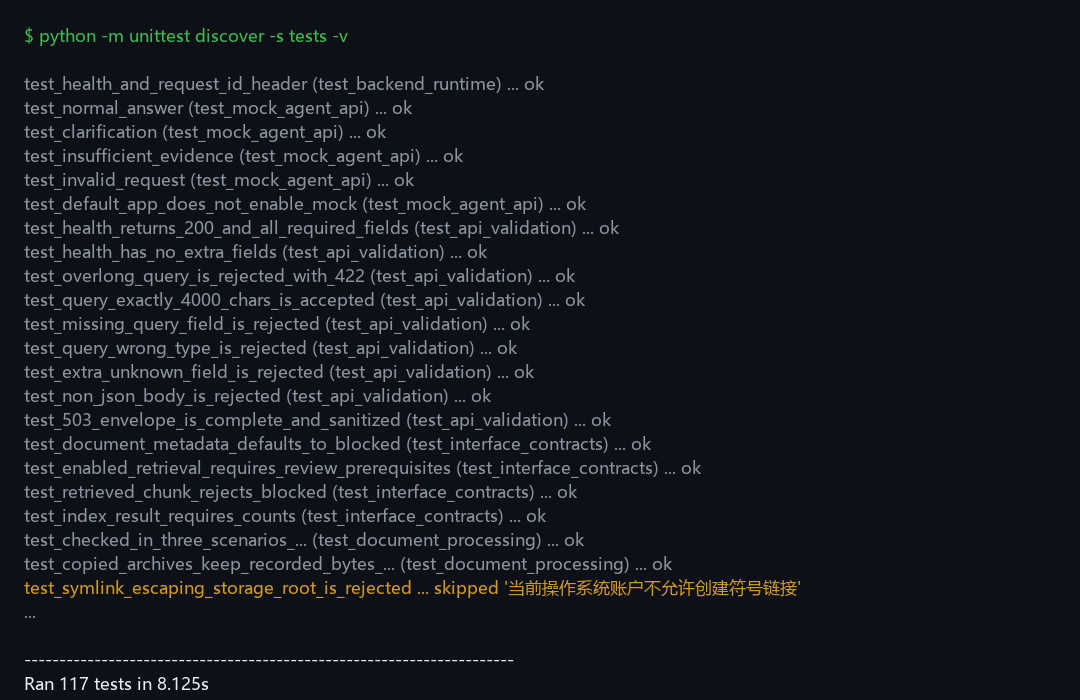
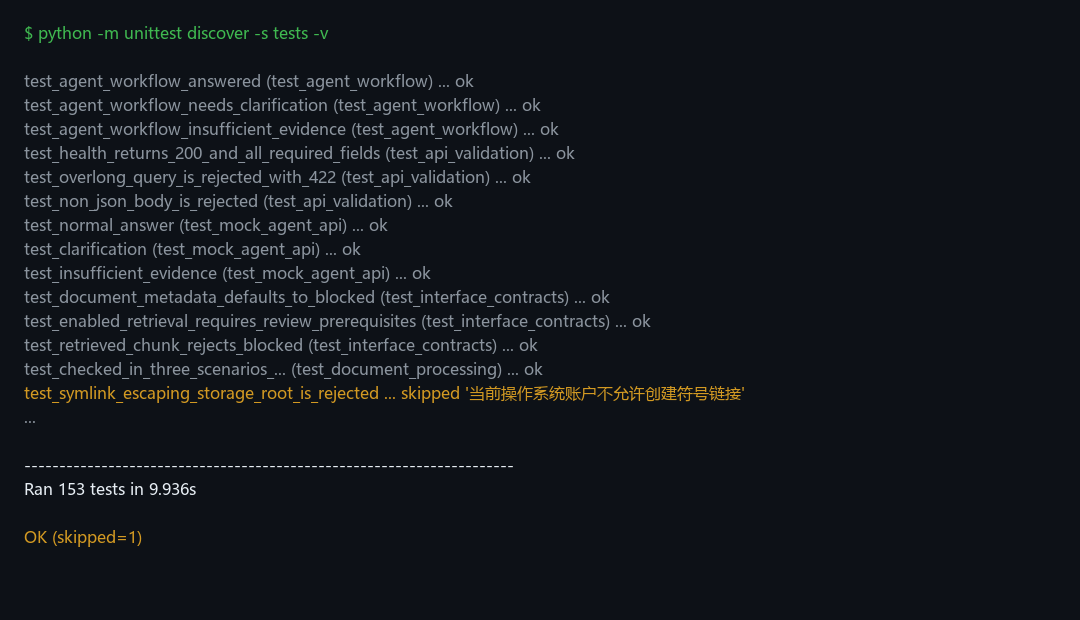
test(alpha): rebase 到最新 main 并更新测试结果为 153 用例
- 将分支 rebase 到 main（含吴诗莹 Agent 工作流 PR #24），
  完整测试数从 117 增至 153（新增 agent_workflow 36 个用例）
- 修正测试统计：153 用例，152 通过，0 失败，0 错误，1 skip
  （skip 为 Windows 账户符号链接权限限制）
- 修正报告中「真实 Agent 尚未接入」的过时表述：AgentWorkflow 已落地，
  真实 Retriever / 真实 Qwen 调用仍待接入
- 同步更新 test-report.md、test-results.json、test-run-output.txt 及两张截图

Changed region(s): [[0.0, 0.0919, 0.7333, 0.8887], [0.0, 0.0306, 0.3056, 0.0613], [0.0306, 0.95, 0.1833, 1.0]]

diff --git a/docs/assignment-03/alpha/test-report.md b/docs/assignment-03/alpha/test-report.md
@@ -31,8 +31,8 @@ python -m unittest discover -s tests -v
 
 | 指标 | 数值 |
 | --- | --- |
-| 测试用例总数 | 117 |
-| 通过 | 116 |
+| 测试用例总数 | 153 |
+| 通过 | 152 |
 | 失败（fail） | 0 |
 | 错误（error） | 0 |
 | 跳过（skip） | 1 |
@@ -40,6 +40,9 @@ python -m unittest discover -s tests -v
 > 唯一 1 个 skip 来自 `test_document_processing.DocumentProcessingTests.test_symlink_escaping_storage_root_is_rejected`，
 > 原因是当前 Windows 账户不允许创建符号链接（`当前操作系统账户不允许创建符号链接`），
 > 属环境权限限制，非测试代码或被测代码缺陷。
+>
+> 153 个用例包含：吴诗莹新增的 Agent 工作流测试 36 个（`test_agent_workflow.py` 30 + `test_agent_workflow_api.py` 3 +
+> `test_agent_workflow_qwen.py` 3），以及本报告的 API/契约测试 117 个。
 >
 > 执行环境（来自 `python -m scripts.check_document_processing`）：Python 3.13.14、pydantic 2.13.5、
 > fastapi 0.141.1、httpx 0.28.1，平台 Windows。
@@ -115,10 +118,6 @@ python -m unittest discover -s tests -v
   由吴诗莹（Agent）与罗宇泽（规范）确认后在真实 Agent 实现中补全。
 - **状态**：待协调，暂不改动公共字段（遵守「不擅自修改公共字段」要求）。
 
-> 注：早期测试曾在不完整的工作区（缺少 `knowledge_base/` 与 `scripts/`）中运行，
-> 导致 `RepositoryPackageTests` 出现 4 个 `FileNotFoundError`。在完整仓库重新执行后，
-> 这些用例全部通过，故不再作为问题列出。
-
 ---
 
 ## 5. 尚未覆盖的内容（如实说明）
@@ -127,13 +126,16 @@ python -m unittest discover -s tests -v
 
 | 未覆盖项 | 原因 | 计划 |
 | --- | --- | --- |
-| 真实 Agent 工作流（任务识别/追问/证据核验） | 真实 Agent（吴诗莹）尚未接入，当前仅 Mock | M2 后半段 Agent 落地后补集成测试 |
-| 检索模块（Chroma/BM25/RRF） | 检索器（王智洋）未接入 | 检索联调后补 `Retriever` 集成测试 |
+| 检索模块（Chroma/BM25/RRF） | 真实检索器（王智洋）尚未接入，`AgentWorkflow` 依赖注入的 mock Retriever | 检索联调后补 `Retriever` 集成测试 |
 | 真实 Qwen 调用 | 仅测试了适配器的错误映射与脱敏，未真实联网 | 保留为集成测试，避免测试依赖外部模型 |
 | 前端浏览器端测试（吴欣键/洪添军） | 前端尚未完成 | 前端完成后按任务清单二逐项验证 |
 | 后台管理 API（林彦翔） | 管理端 API 尚未实现（契约已定义） | 后台开发阶段实现后补测 |
 | 会话持久化 | 本阶段尚未实现，`conversation_id` 由后端临时生成 | 持久化落地后补测多轮会话 |
 | 认证/授权 | 规范明确当前未接入 | 接入后补测鉴权边界 |
+
+> 说明：吴诗莹的 Agent 工作流（`backend/services/agent_workflow.py` 的 `AgentWorkflow`）已合入 main，
+> 并自带 36 个测试（`test_agent_workflow*.py`），故「Agent 工作流」本身已不在此未覆盖清单中；
+> 但其依赖的真实 `Retriever` 与真实 `LLMClient` 仍待接入，见上表。
 
 ---
 
@@ -159,7 +161,7 @@ python -m unittest discover -s tests -v
 2. **错误处理统一且安全**：所有错误走统一 `ApiErrorResponse` envelope，且不泄露内部堆栈、密钥、
    数据库连接串或本地路径。
 3. **无失败（fail）、无错误（error）用例**，唯一 1 个 skip 为 Windows 账户符号链接权限限制，非代码缺陷。
-4. **待推进**：真实 Agent、检索、前端联调、后台管理、会话持久化、鉴权等内容将在后续里程碑补测。
+4. **待推进**：真实检索器（Chroma/BM25）、真实 Qwen 调用、前端联调、后台管理、会话持久化、鉴权等内容将在后续里程碑补测（Agent 工作流本身已随 PR #24 合入并有 36 个测试）。
 
 ---
 
